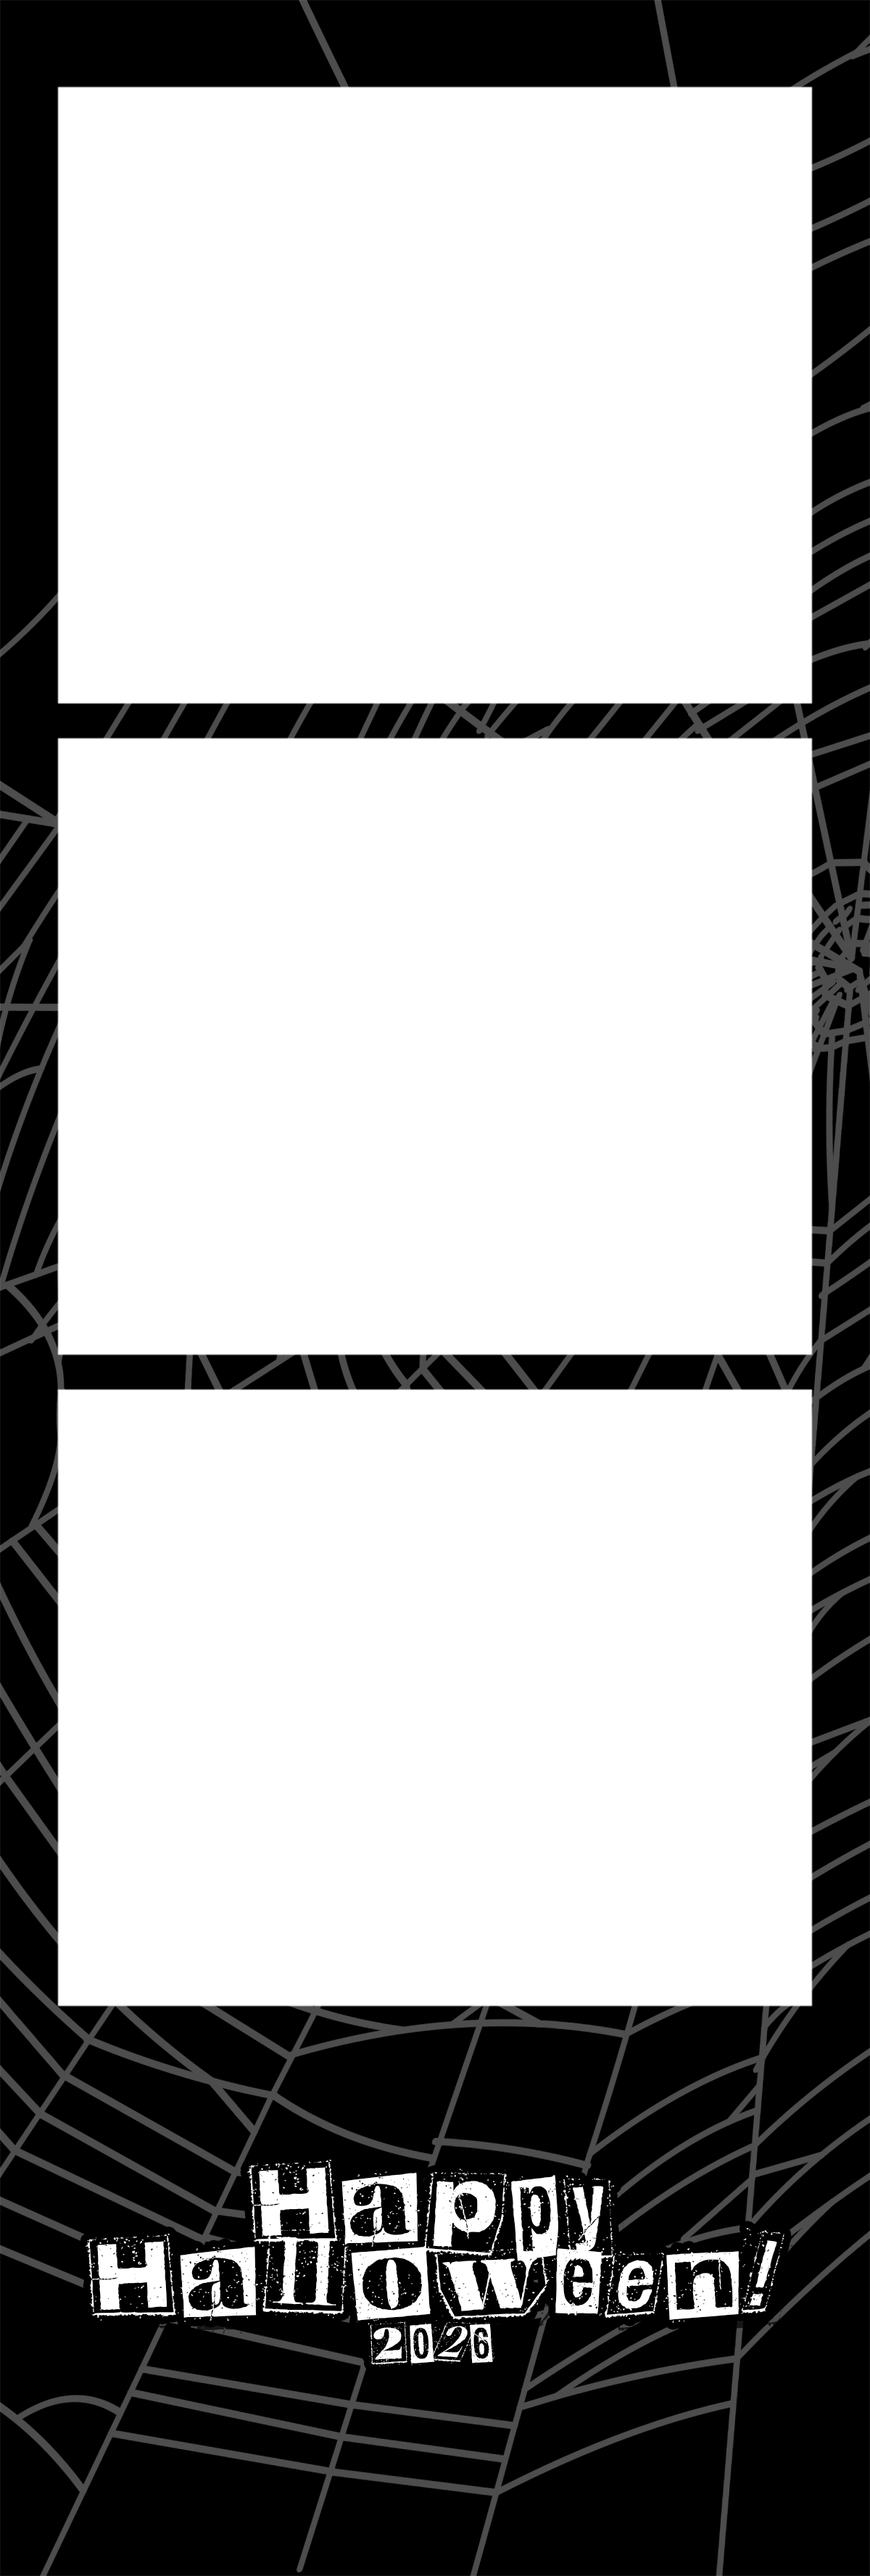
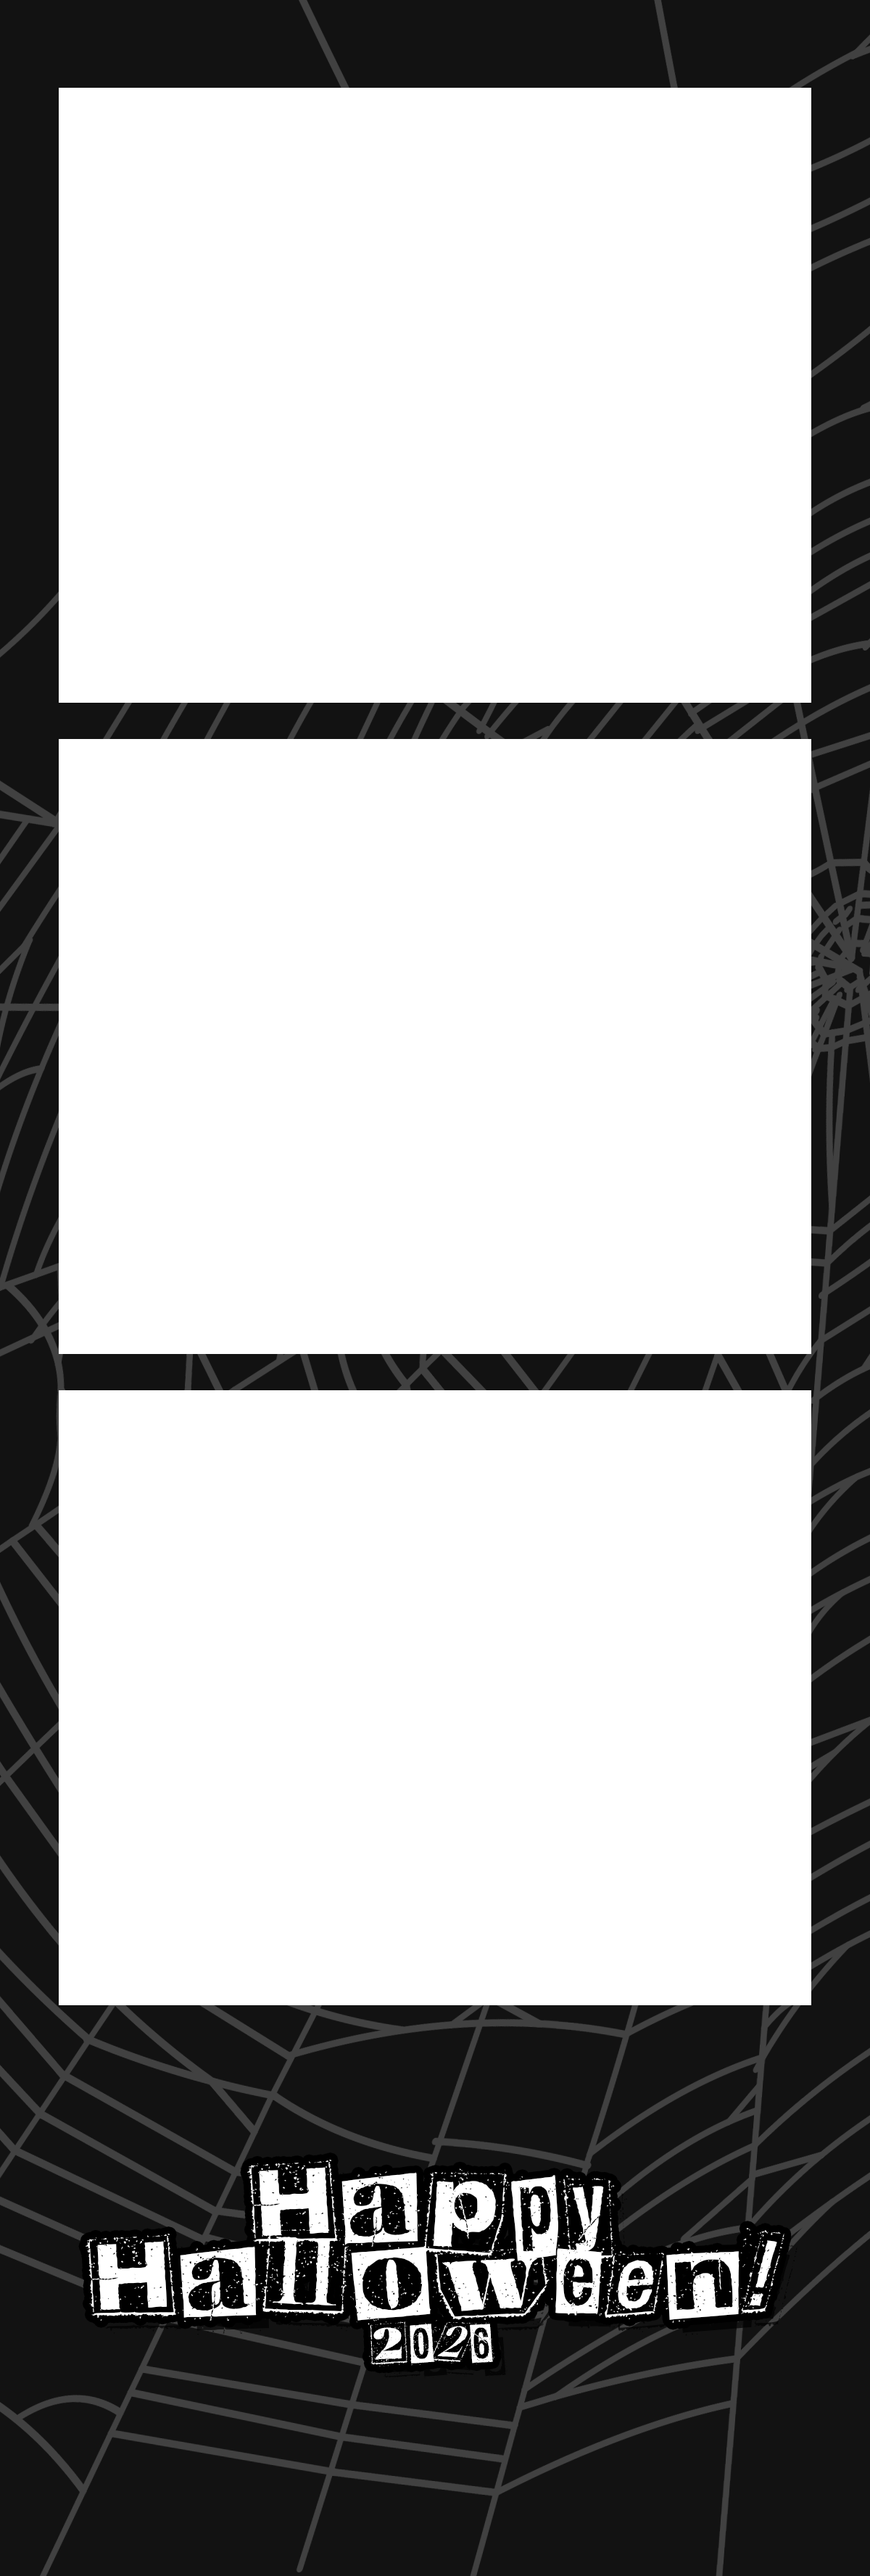
update black color, update frames, fix spacing, bold titles of buttons

diff --git a/index.html b/index.html
@@ -13,13 +13,15 @@
 <style>
   :root {
     --bg: #4F1111;
-    --panel: #252525;
+    --panel: #141414;
     --text: #F2F0EF;
     --muted: #9a9aa5;
     --bulb: #E09120;
-    --bulb-ink: #252525;
-    --header-h: 0px;                   /* measured from the header image at runtime */
-    --stage-h: calc(100dvh - 240px - var(--header-h));   /* height reserved for the preview, whatever its shape */
+    --bulb-ink: #141414;
+    --G: clamp(14px, 3.4dvh, 40px);    /* the one gap used above the header, below it, and around the preview */
+    --header-h: calc(var(--G) * 2 + 75px);   /* header image + its margins; measured at runtime */
+    --controls-h: 116px;               /* height of the button area; measured at runtime */
+    --stage-h: calc(100dvh - var(--header-h) - var(--controls-h) - 2 * var(--G));   /* area for the preview + its outline */
     --font: "Bricolage Grotesque", -apple-system, BlinkMacSystemFont, "Helvetica Neue", Arial, sans-serif;
   }
   * { box-sizing: border-box; -webkit-tap-highlight-color: transparent; }
@@ -37,15 +39,15 @@
   }
   #header {
     flex: 0 0 auto; width: 100%;
-    display: flex; justify-content: center; padding: 8px 16px;   /* transparent: no banner behind the image */
+    display: flex; justify-content: center; padding: 0 16px; margin: var(--G) 0;   /* transparent: no banner behind the image */
     pointer-events: none;
   }
   #header[hidden] { display: none; }
   #headerImg { position: relative; z-index: 1; display: block; width: min(100%, 680px); aspect-ratio: 1174 / 129; height: auto; }
   #app {
     flex: 1 1 auto; min-height: 0; width: 100%;
-    display: flex; flex-direction: column; align-items: center; justify-content: center;
-    gap: 16px; padding: 16px;
+    display: flex; flex-direction: column; align-items: center; justify-content: flex-start;
+    gap: var(--G); padding: 0 16px;
   }
   .hidden { display: none !important; }
 
@@ -58,21 +60,22 @@
     position: relative;
     --ar: 1.3333;                      /* set from the selected frame's photo window */
     aspect-ratio: var(--ar);
-    width: min(100%, calc(var(--stage-h) * var(--ar)));
-    background: #252525;
+    margin: 6px;                                       /* room for the 6px outline inside the area */
+    width: min(calc(100% - 12px), calc((var(--stage-h) - 12px) * var(--ar)));
+    background: #141414;
     border-radius: 20px;
     overflow: hidden;
     box-shadow: 0 0 0 6px #F2F0EF;                       /* white outline */
   }
   #video {
     position: absolute; inset: 0; width: 100%; height: 100%;
-    object-fit: cover; background: #252525;
+    object-fit: cover; background: #141414;
   }
   #video.mirror { transform: scaleX(-1); }
   #video.bw, #freeze.bw { filter: grayscale(1); }   /* B&W mode: live preview + frozen photo */
   #freeze {
     position: absolute; inset: 0; width: 100%; height: 100%;
-    object-fit: cover; background: #252525;
+    object-fit: cover; background: #141414;
   }
 
   #countdown {
@@ -103,7 +106,7 @@
   #message {
     position: absolute; inset: 0; display: flex; align-items: center; justify-content: center;
     text-align: center; padding: 24px; font-size: 18px; line-height: 1.4; color: var(--muted);
-    background: #252525;
+    background: #141414;
   }
   #message b { color: var(--text); }
 
@@ -136,20 +139,21 @@
   button:active { transform: scale(.96); }
   button:disabled { opacity: .35; cursor: default; }
   button:focus-visible { outline: 3px solid #F2F0EF; outline-offset: 3px; }
-  button.secondary { background: #F2F0EF; color: #252525; font-weight: 500; font-size: 17px; padding: 14px 24px; border: 1px solid transparent; }
+  button.secondary { background: #F2F0EF; color: #141414; font-weight: 500; font-size: 17px; padding: 14px 24px; border: 1px solid transparent; }
   #flip { padding: 11px 16px; line-height: 0; }
-  #flip img { width: 32px; height: 32px; display: block; filter: brightness(0) invert(.145); }   /* #252525, to show on the light button */
-  #frameBtn { width: 300px; white-space: nowrap; }   /* width is set from the longest frame name at runtime */
+  #flip img { width: 32px; height: 32px; display: block; filter: brightness(0) invert(.078); }   /* #141414, to show on the light button */
+  #frameBtn { width: 300px; white-space: nowrap; }
+  #frameBtn b { font-weight: 800; }   /* width is set from the longest frame name at runtime */
 
   /* option groups: label + choices */
   .opt {
     display: flex; align-items: center; gap: 6px;
     background: #F2F0EF; border: 1px solid transparent; border-radius: 999px; padding: 4px 4px 4px 18px;
   }
-  .optLabel { color: #252525; font-size: 16px; font-weight: 500; white-space: nowrap; }
+  .optLabel { color: #141414; font-size: 16px; font-weight: 800; white-space: nowrap; }
   .optDiv { width: 1px; height: 24px; background: #b9b9c2; margin: 0 8px 0 6px; flex: 0 0 auto; }
   .opt button {
-    background: transparent; color: #252525; font-weight: 500; font-size: 16px; padding: 10px 16px; border-radius: 999px;
+    background: transparent; color: #141414; font-weight: 500; font-size: 16px; padding: 10px 16px; border-radius: 999px;
   }
   .opt button.on { background: var(--bulb); color: var(--bulb-ink); font-weight: 800; }
 
@@ -174,7 +178,7 @@
     padding: 8px; border-radius: 14px; border: 3px solid transparent;
     display: flex; flex-direction: column; align-items: center; gap: 8px;
   }
-  .frameItem canvas { width: 90px; height: auto; border-radius: 3px; background: #252525; display: block; }
+  .frameItem canvas { width: 90px; height: auto; border-radius: 3px; background: #141414; display: block; }
   .frameItem.selected { border-color: var(--bulb); }
 
   /* ---------- Print instructions (side panel, stays visible behind the iPad print screen) ---------- */
@@ -201,7 +205,7 @@
   #printHelp b { font-weight: 800; }
 
   /* ---------- Result ---------- */
-  #result { height: 100%; width: 100%; display: flex; align-items: center; justify-content: center; gap: 32px; flex-wrap: wrap; }
+  #result { height: 100%; width: 100%; display: flex; align-items: center; justify-content: center; gap: 64px; flex-wrap: wrap; }
   #resultImg {
     height: calc(min(calc(100dvh - 40px - var(--header-h)), 90vw * 1.48) * .9);   /* preview shown 10% smaller; the saved/printed image is unchanged */
     aspect-ratio: 100 / 148;
@@ -212,7 +216,7 @@
   #resultSide { display: flex; flex-direction: column; gap: 12px; align-items: stretch; min-width: 220px; }
   #againBtn { margin-top: 38px; }   /* with the 12px gap = one button's height of space above Take New Photos */
   @media (max-aspect-ratio: 1/1) {
-    #result { flex-direction: column; gap: 16px; }
+    #result { flex-direction: column; gap: 32px; }
     #againBtn { margin-top: 0; }
     #resultImg { height: calc(min(calc((100dvh - var(--header-h)) * .65), 90vw * 1.48) * .9); }
     #resultSide { flex-direction: row; flex-wrap: wrap; justify-content: center; }
@@ -347,9 +351,11 @@
   //   overlay: true/false – override the png/jpg rule above
   //   slots:   { 3: [{x,y,w,h},…3], 4: [{x,y,w,h},…4] } – your own photo windows
   // A file that can't be loaded is skipped automatically.
+  // Plain-colour frames need no files: give an entry bg (the colour), and optionally fg (caption text
+  // colour) and guide (the faint cut line between the two strips), like Classic Black / Classic White.
   const FRAME_CONFIG = [
-    { id: 'black',  name: 'Classic Black' },                       // built in, no file needed
-    { id: 'white',  name: 'Classic White', files: { 3: 'frames/white-3.png', 4:'frames/white-4.png'}},
+    { id: 'black',  name: 'Classic Black', bg: '#141414', fg: '#F2F0EF', guide: '#2a2a2a' },   // built in, no file needed
+    { id: 'white',  name: 'Classic White', bg: '#F2F0EF', fg: '#141414', guide: '#d8d5d3' },   // built in, no file needed
     { id: 'pixel',   name: 'Halloween Pixel', files: { 3: 'frames/pixel-3.png', 4:'frames/pixel-4.png'}},
     { id: 'web', name: 'Halloween Web', files: { 3: 'frames/web-3.png', 4:'frames/web-4.png'}},
     // { id: 'party', name: 'Party', files: { 3: 'frames/party-3.png', 4: 'frames/party-4.png' } },
@@ -637,7 +643,7 @@
   function drawStrip(ctx, x0, photos, frame, count) {
     const slots = (frame.slots && frame.slots[count]) || LAYOUTS[count];
     const art = frame.art && frame.art[count];
-    ctx.fillStyle = '#000';
+    ctx.fillStyle = frame.bg || '#141414';           // built-in frames set their own colour
     ctx.fillRect(x0, 0, STRIP_W, STRIP_H);
     if (art && !art.overlay) ctx.drawImage(art.img, x0, 0, STRIP_W, STRIP_H);     // background art
     slots.forEach((s, i) => {
@@ -648,7 +654,7 @@
     if (!art && CAPTION_TEXT && photos) {
       const last = slots[slots.length - 1];
       const yCap = last.y + last.h + (STRIP_H - last.y - last.h) / 2;
-      ctx.fillStyle = '#fff';
+      ctx.fillStyle = frame.fg || '#F2F0EF';
       ctx.font = '600 28px -apple-system, Helvetica, Arial, sans-serif';
       ctx.textAlign = 'center'; ctx.textBaseline = 'middle';
       ctx.fillText(CAPTION_TEXT, x0 + STRIP_W / 2, yCap);
@@ -663,7 +669,7 @@
     ctx.imageSmoothingEnabled = true; ctx.imageSmoothingQuality = 'high';
     drawStrip(ctx, 0, photos, frame, photos.length);
     drawStrip(ctx, STRIP_W, photos, frame, photos.length);
-    ctx.fillStyle = '#2a2a2a';                      // faint cut guide
+    ctx.fillStyle = frame.guide || '#2a2a2a';       // faint cut guide
     ctx.fillRect(STRIP_W - 1, 0, 2, SHEET_H);
     return sheet;
   }
@@ -815,9 +821,12 @@
   function sizeFrameBtn() {
     const cs = getComputedStyle(frameBtn);
     const ctx = document.createElement('canvas').getContext('2d');
-    ctx.font = cs.fontWeight + ' ' + cs.fontSize + ' ' + cs.fontFamily;
+    const font = cs.fontSize + ' ' + cs.fontFamily;
+    ctx.font = '800 ' + font;                                   // "Frame:" is bold
+    const labelW = ctx.measureText('Frame:').width;
+    ctx.font = cs.fontWeight + ' ' + font;
     let w = 0;
-    frames.forEach(f => { w = Math.max(w, ctx.measureText('Frame: ' + f.name).width); });
+    frames.forEach(f => { w = Math.max(w, labelW + ctx.measureText(' ' + f.name).width); });
     const pad = parseFloat(cs.paddingLeft) + parseFloat(cs.paddingRight) + parseFloat(cs.borderLeftWidth) + parseFloat(cs.borderRightWidth);
     frameBtn.style.width = Math.ceil(w + pad + 8) + 'px';
   }
@@ -826,7 +835,9 @@
     applyPreviewAspect();
     const multi = availableFrames(shots).length > 1;
     frameBtn.classList.toggle('hidden', !multi);
-    frameBtn.textContent = 'Frame: ' + frameFor(shots).name;
+    frameBtn.textContent = '';
+    const lab = document.createElement('b'); lab.textContent = 'Frame:';
+    frameBtn.append(lab, ' ' + frameFor(shots).name);
     const rc = lastPhotos ? lastPhotos.length : shots;
     resultFrameBtn.classList.toggle('hidden', availableFrames(rc).length < 2);
   }
@@ -906,18 +917,28 @@
 
   // ---------- Header ----------
   const headerEl = $('header');
-  const syncHeader = () => document.documentElement.style.setProperty('--header-h', (headerEl.hidden ? 0 : headerEl.offsetHeight) + 'px');
+  const rootStyle = document.documentElement.style;
+  const syncHeader = () => {                       // header height including the gap above and below it
+    const cs = getComputedStyle(headerEl);
+    const h = headerEl.hidden ? 0 : headerEl.offsetHeight + parseFloat(cs.marginTop) + parseFloat(cs.marginBottom);
+    rootStyle.setProperty('--header-h', h + 'px');
+  };
+  const syncControls = () => rootStyle.setProperty('--controls-h', $('controls').offsetHeight + 'px');
+  if (window.ResizeObserver) new ResizeObserver(syncControls).observe($('controls'));
+  window.addEventListener('resize', syncControls);
+  syncControls();
   $('headerImg').addEventListener('error', () => { headerEl.hidden = true; syncHeader(); });   // no image => no header
   if (window.ResizeObserver) new ResizeObserver(syncHeader).observe(headerEl);
   window.addEventListener('resize', syncHeader);
   syncHeader();
 
-  // Centre the header image vertically between the top of the page and the top of the main
-  // content (the camera preview frame, or the finished strip on the result screen).
+  // On the result screen, centre the header vertically between the top of the page and the top of
+  // the finished strip. (The camera screen uses the even spacing built into the layout.)
   const headerImg = $('headerImg');
   function placeHeader() {
     if (headerEl.hidden) return;
     const onBooth = !booth.classList.contains('hidden');
+    if (onBooth) { headerImg.style.transform = ''; return; }   // camera screen: plain even spacing from the layout itself
     const ref = (onBooth ? $('stage') : resultImg).getBoundingClientRect();
     if (!ref.height) return;
     const frameTop = ref.top - (onBooth ? 6 : 0);                  // 6px = the white outline around the preview
